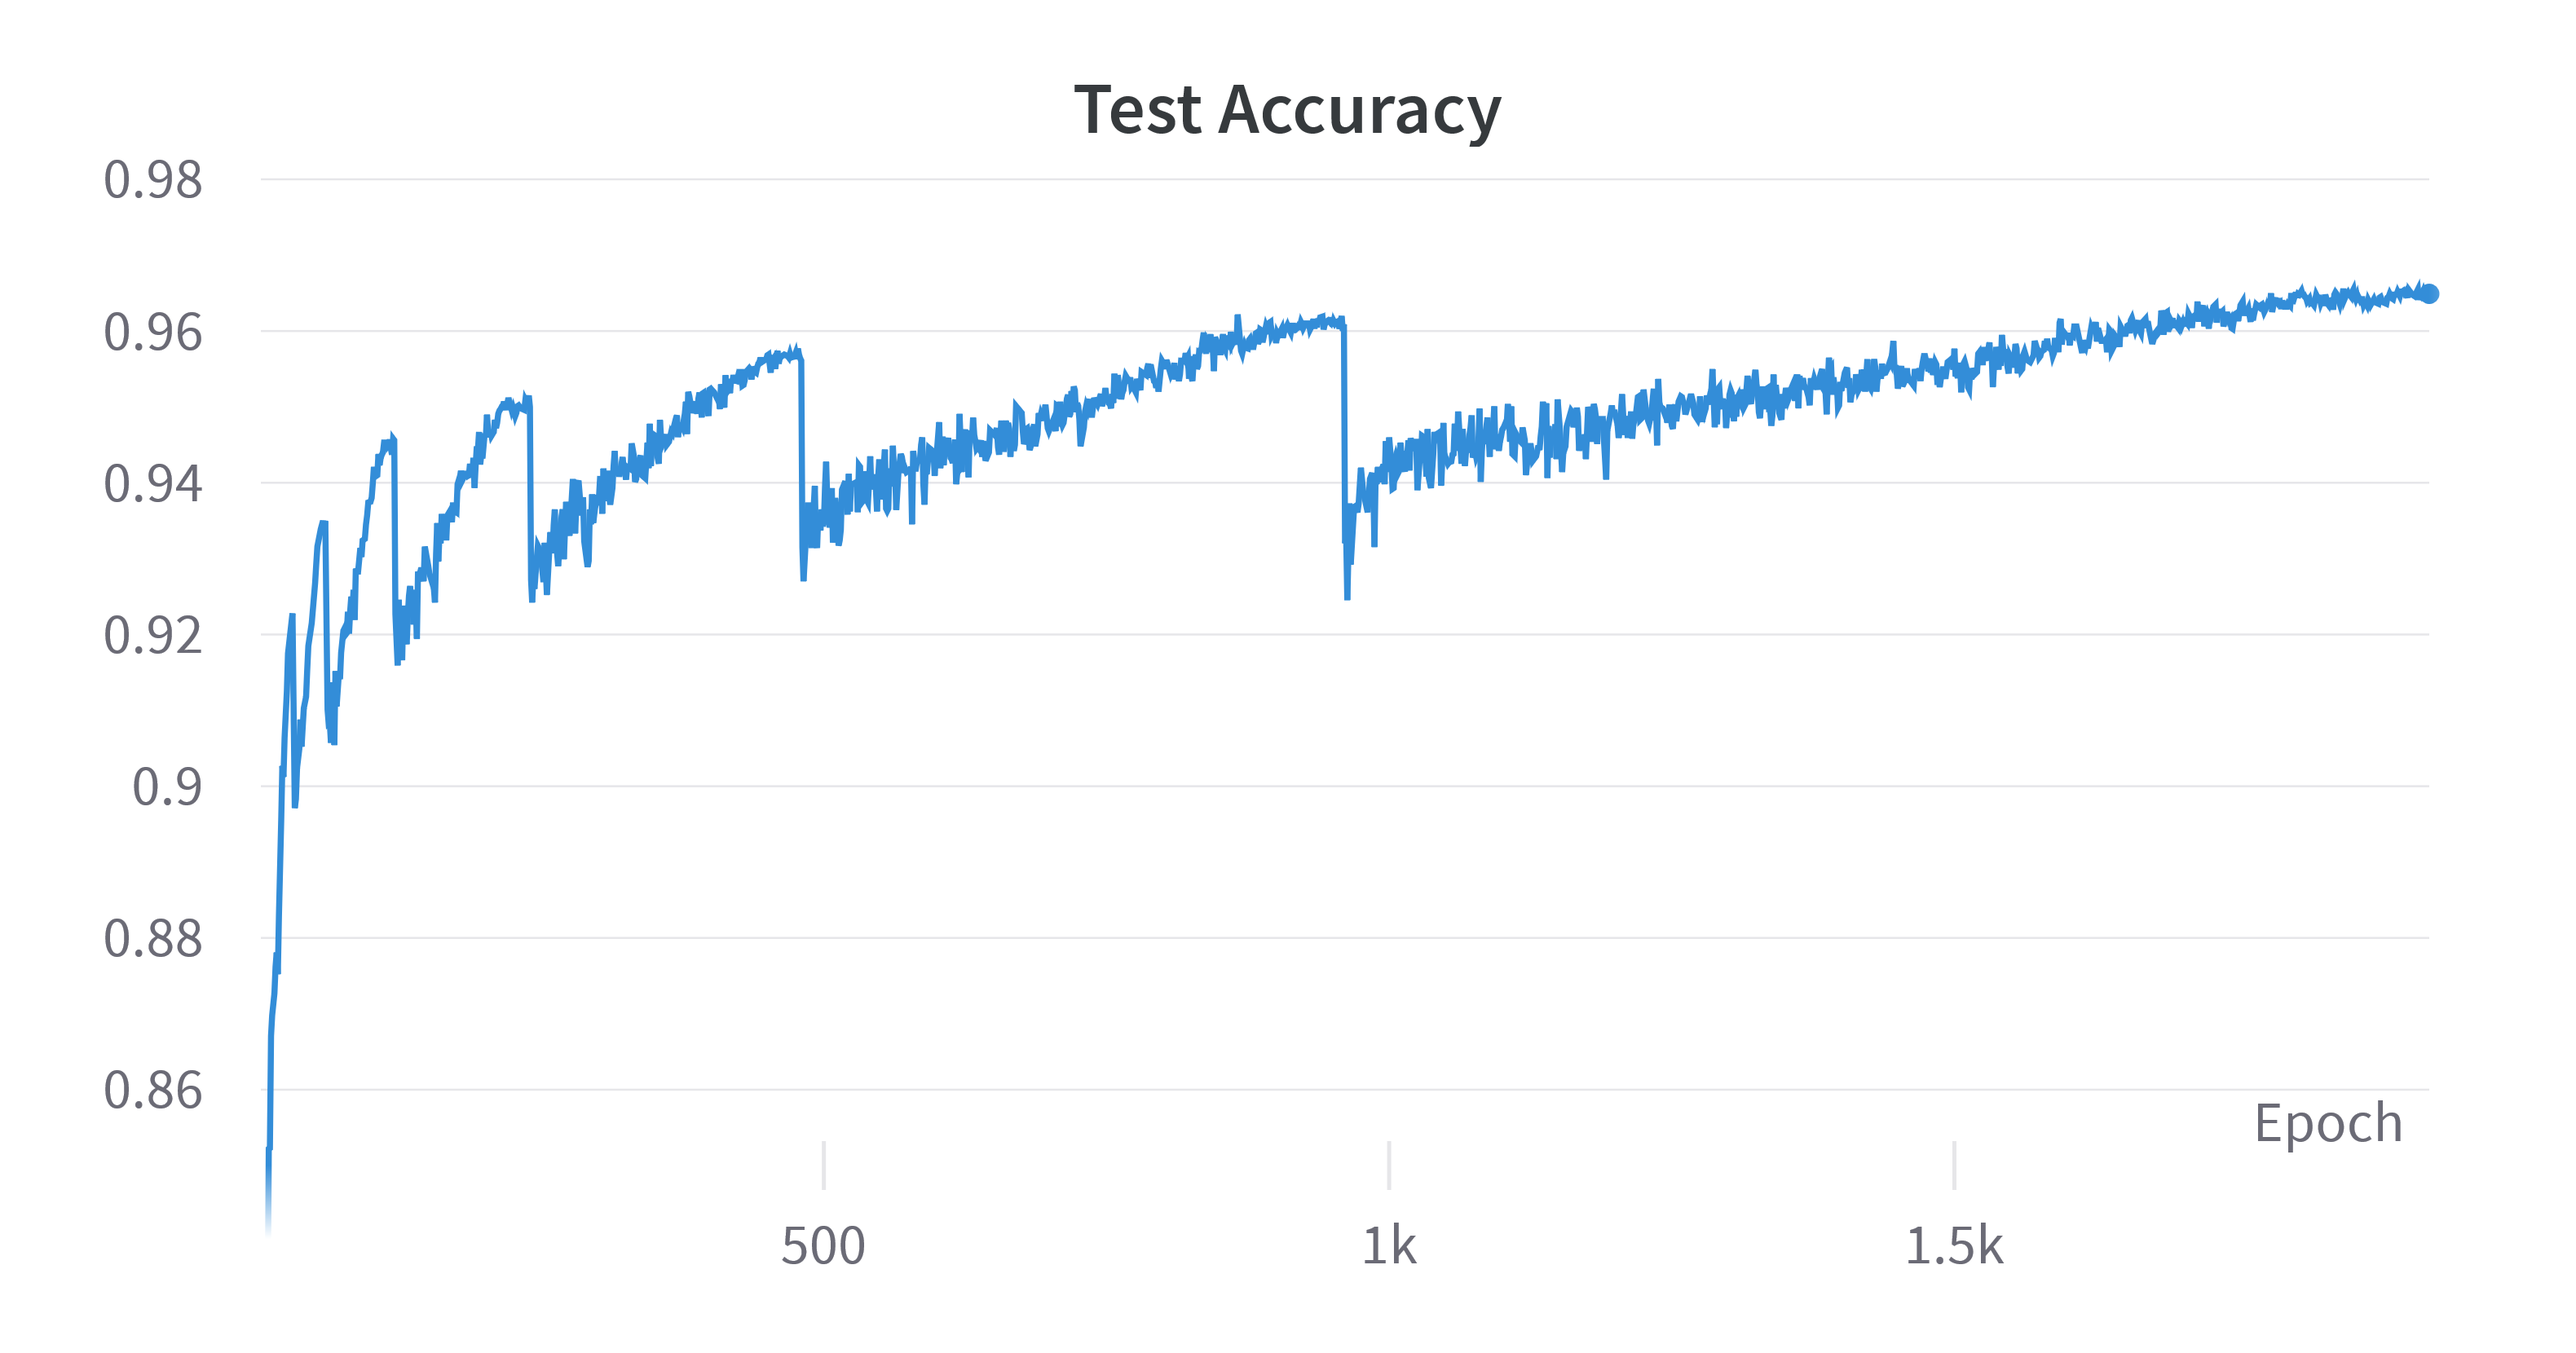
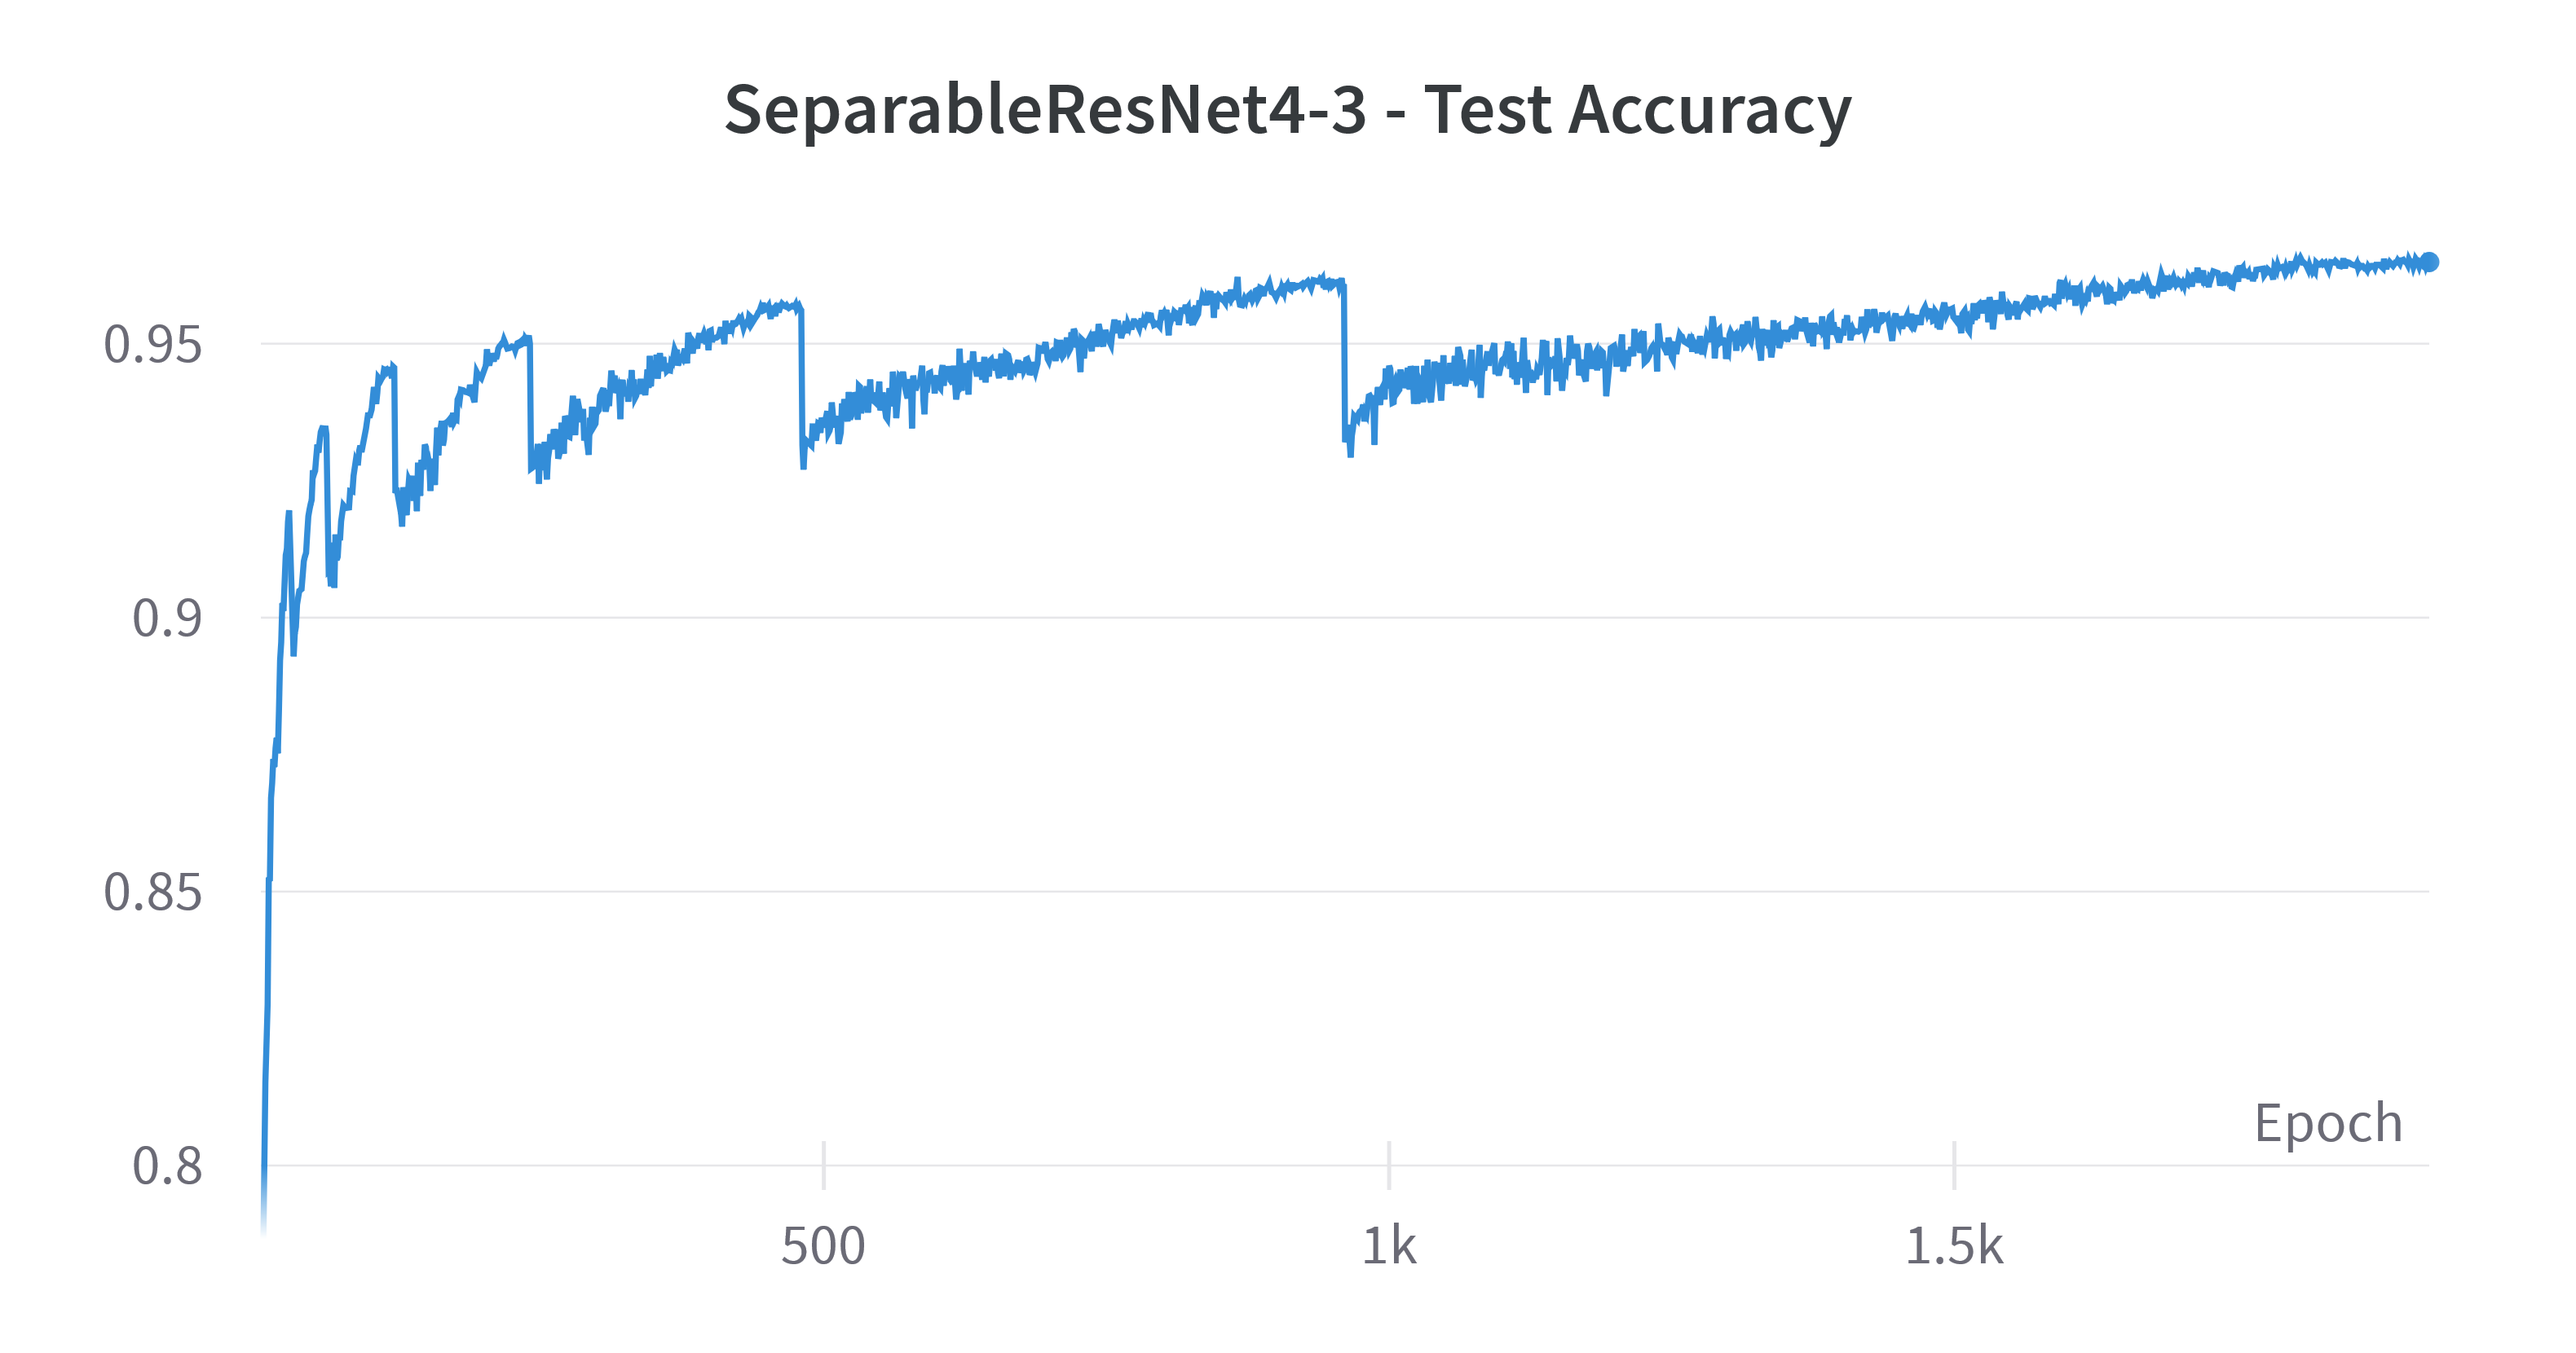
Add ResNet32 training results

diff --git a/README.md b/README.md
@@ -25,25 +25,28 @@ Model format is: *SeparableResNet\<width-factor>-\<depth-factor>*
 
 |Model             |Parameters|Test Accuracy|
 |     :---:        |   :---:  |    :---:    |
-|SeparableResNet4-3|   0.45M  |     96.49   |
+|SeparableResNet4-3|   0.45M  |    96.49    |
+| ResNet32*        |   0.47M  |    94.19    | 
+
+\*This implementation employs shortcut connections of type (B) instead of type (A). It also follows the above training recipe.
 
 Weights are available under `trained-models`. Look at `check_results.py` on how to use them.
 
 ### Test Accuracy Breakdown
-| Epoch | Test Accuracy |
-| :---: | :---: |
-| 30    | 92.28 |
-| 60    | 93.34 |
-| 120   | 94.56 |
-| 240   | 95.00 |
-| 480   | 95.65 |
-| 960   | 96.09 |
-| 1920  | 96.49 |
+| Epoch | SeparableResNet4-3 | ResNet32 |
+| :---: | :---: | :---: |
+| 30    | 92.28 | 89.74 |
+| 60    | 93.34 | 91.19 |
+| 120   | 94.56 | 92.61 |
+| 240   | 95.00 | 93.55 |
+| 480   | 95.65 | 94.04 |
+| 960   | 96.09 | 94.19 |
+| 1920  | 96.49 |   -   |
 
-From the progression it looks like further improvements are possible but this would require many days of training on my laptop.
+- From the progression it looks like further improvements are possible for *SeparableResNet4-3* but this becomes exponentially difficult.
+
+- We can see this training recipe is more effective on *ResNet32* than the original one.
+
+- Improvements are steadier for *SeparableResNet4-3*.
 
 ![Test Accuracy learning curve](trained-models/CIFAR10/separable-resnet4-3/test-accuracy.png)
-
-
-### Insight
-I think the good performances are due more to the training recipe than the network architecture.
